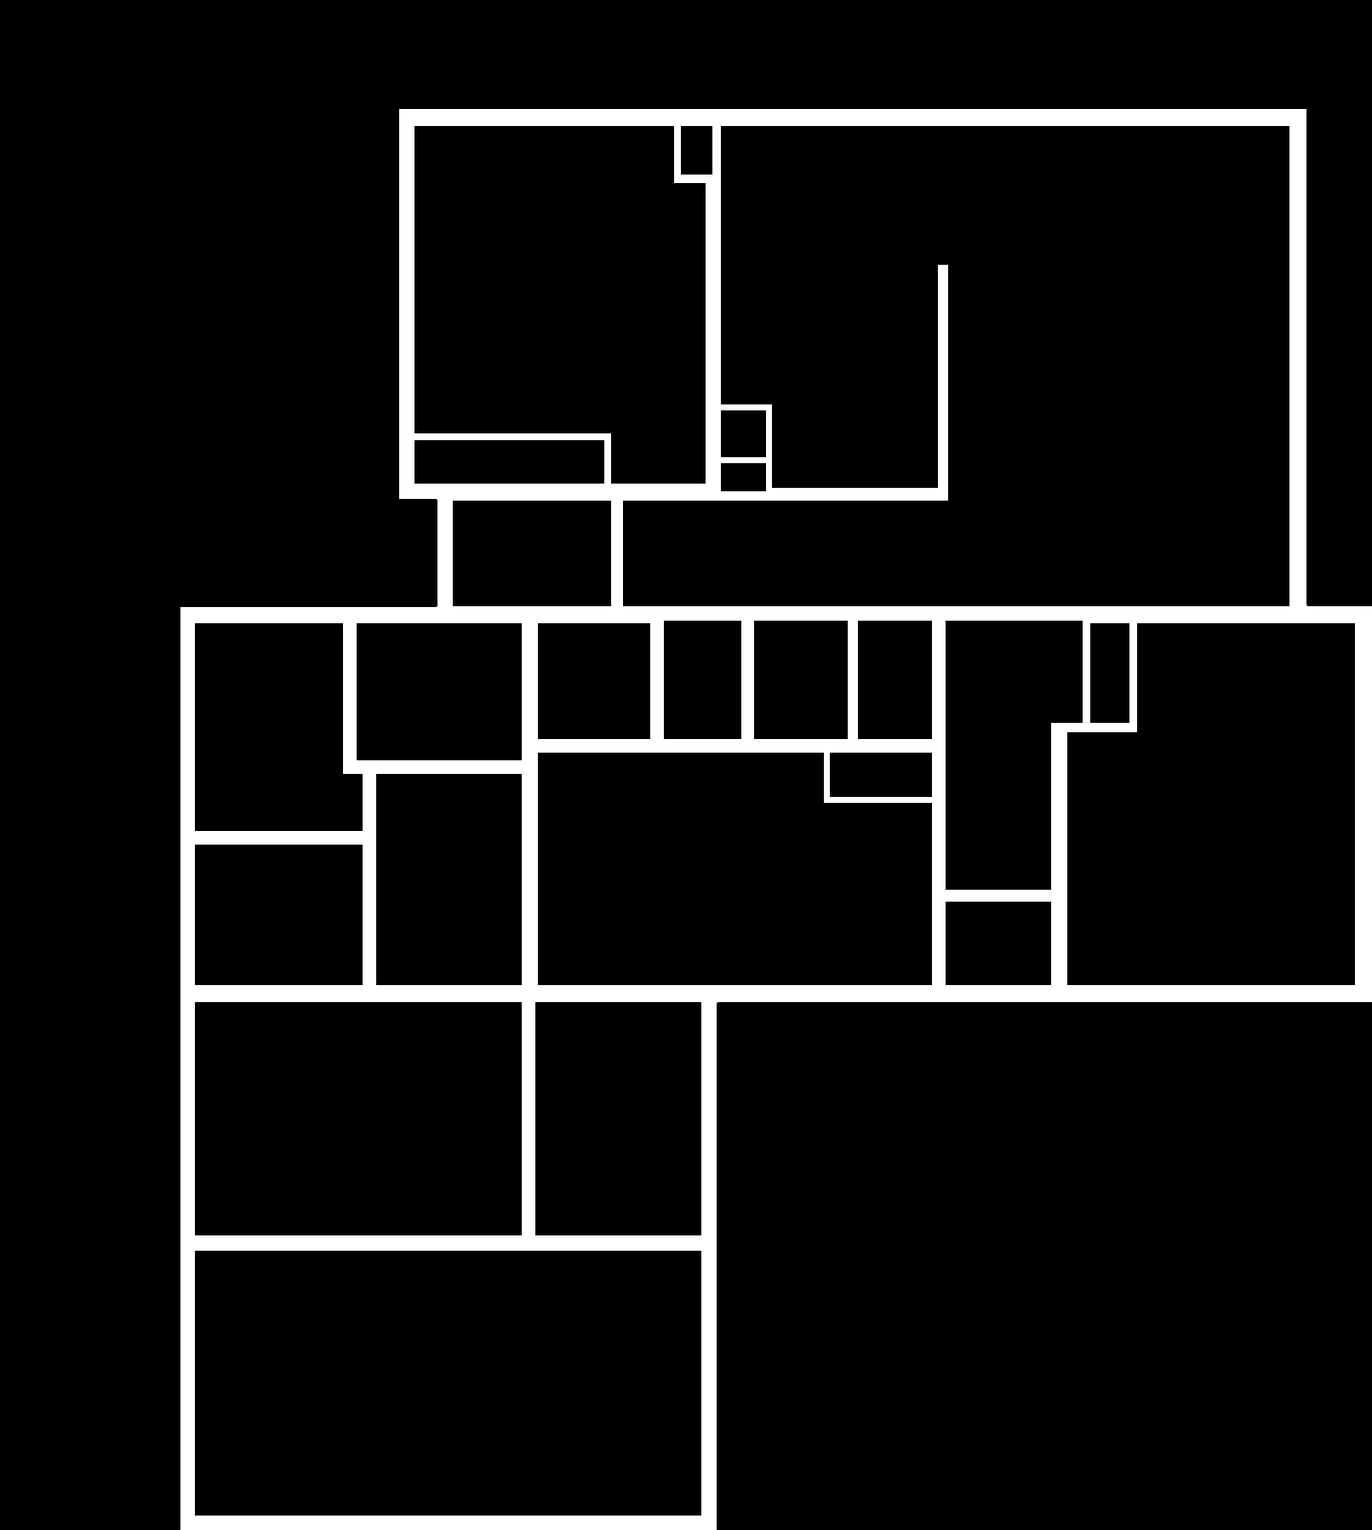
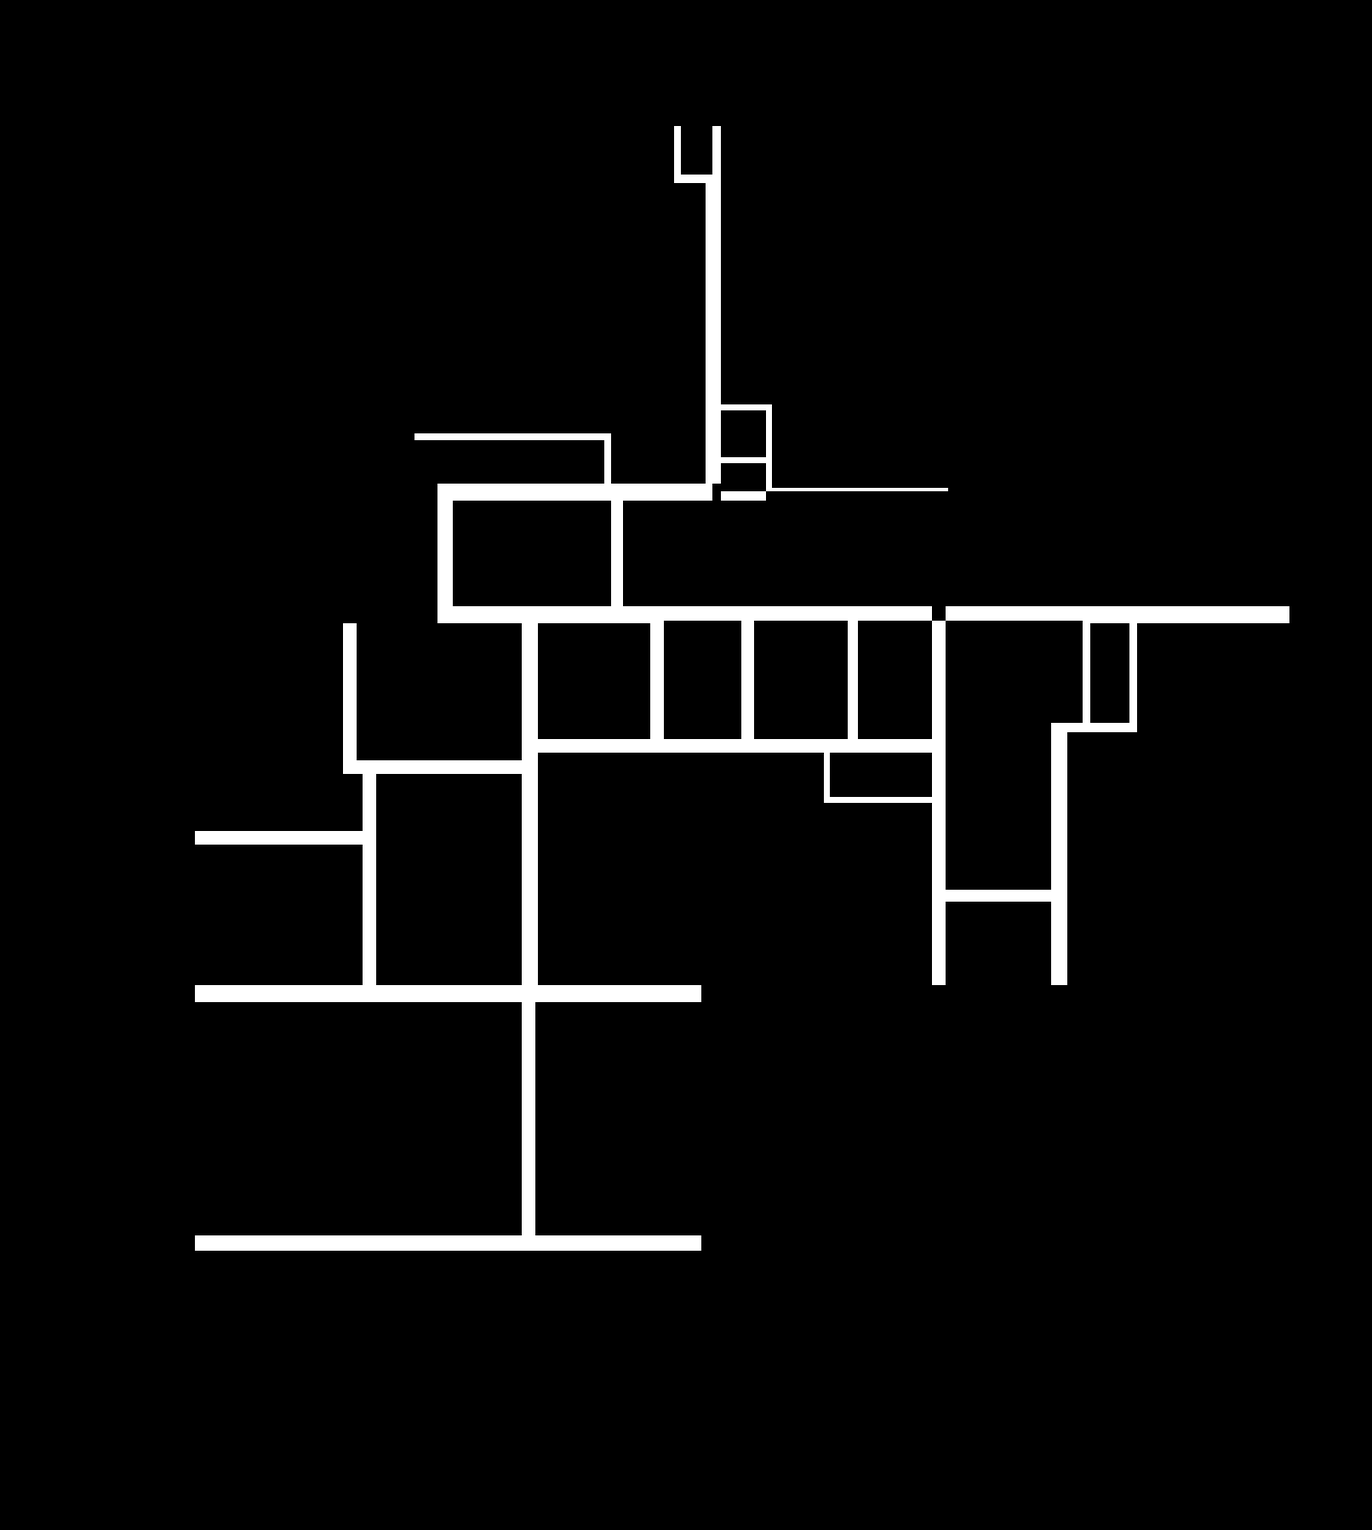
debug

Changed region(s): [[0.1241, 0.0623, 1.0, 1.0], [0.5583, 0.1558, 0.7134, 0.3428]]

diff --git a/indoor_topology/detect_adjacency.py b/indoor_topology/detect_adjacency.py
@@ -1,46 +1,47 @@
 import numpy as np
-from scipy.ndimage import binary_erosion, label, binary_dilation, binary_propagation
-from PIL import Image
+from scipy.ndimage import binary_erosion, label, binary_dilation
 
 
 def get_boundary_mask(region_id_map, rid):
     """
-    Returns a boolean mask of boundary pixels for room `rid`.
-    A boundary pixel is one that belongs to room `rid` but has at least
-    one direct neighbor (up, down, left, or right) that is not in `rid`.
+    返回房间 `rid` 的边界像素布尔掩膜。
+    边界像素定义：属于房间rid且至少有一个直接相邻（上、下、左或右）像素不属于该房间的像素。
     """
-    # Create binary mask for the specified room id
     room_mask = (region_id_map == rid)
     if not room_mask.any():
-        # If room id not present, return an all-false mask
+        # 若房间ID不存在于地图中，返回全False掩膜
         return np.zeros_like(region_id_map, dtype=bool)
-    # Define a 4-connected structuring element (including center pixel)
+    # 定义4-邻接结构元素（包括中心像素）
     structure = np.array([[0, 1, 0],
                           [1, 1, 1],
                           [0, 1, 0]], dtype=bool)
-    # Erode the room mask to get interior pixels (border_value=0 treats outside as empty)
+    # 通过腐蚀获取房间内部像素，border_value=0 将房间外视为空
     interior = binary_erosion(room_mask, structure=structure, border_value=0)
-    # Boundary pixels are those in room_mask that were eroded away (not in interior)
+    # 房间边界像素 = 房间mask减去其内部像素
     boundary_mask = room_mask & ~interior
     return boundary_mask
 
 
-def detect_adjacency(region_id_map, wall_array, icon_array, wall_label_array):
+def detect_adjacency(region_id_map, wall_array, icon_array, wall_label_array, debug=True):
     """
-    Detects adjacency between rooms via doors, windows, and walls.
-    Now excludes "exterior walls" (walls adjacent to regions with labels in {0,1,8,50})
-    from room-to-room wall connectivity.
-    Returns a dict where keys are (room1, room2) tuples and values contain:
-      - 'connection_types': set of {'door', 'window', 'wall'} indicating types of connections.
-      - 'num_door_window': count of door/window openings between the rooms.
-      - 'area_door_window': total area (in pixels) of those door/window openings.
-      - 'num_wall': count of wall segments between the rooms.
-      - 'area_wall': total area (pixels) of those wall segments.
+    检测室内房间之间的邻接关系（门、窗、墙连接）。
+    返回一个字典 `edges`，键为(room1, room2)元组，值为包含以下字段的字典：
+      - 'connection_types': 包含 {'door', 'window', 'wall'} 的集合，指示房间间存在的连接类型。
+      - 'num_door_window': 房间间门/窗洞开口的数量。
+      - 'area_door_window': 上述门/窗开口的总像素面积（像素数）。
+      - 'num_wall': 房间间墙体连接段的数量。
+      - 'area_wall': 上述墙体段的总像素数（面积近似值）。
+    参数：
+      - region_id_map: 房间分区ID的二维数组，0表示背景/非房间。
+      - wall_array: 墙体像素的二值数组（1表示墙体，0表示非墙体）。
+      - icon_array: 图标数组，用于标识门窗等开口区域（约定1为门，2为窗）。
+      - wall_label_array: 墙体类别/分段标签数组，用于辅助判断外墙等排除情况。
+      - debug: 是否启用调试模式。若为True，将输出调试图像'debug_internal_wall_mask.png'显示内部墙体区域。
     """
     edges = {}
 
     def ensure_edge_entry(a, b):
-        """Helper to initialize dictionary entry for a room pair if not exists."""
+        """确保字典中存在房间对(a,b)的记录条目（无向，无序）。"""
         key = (a, b) if a < b else (b, a)
         if key not in edges:
             edges[key] = {
@@ -52,12 +53,12 @@ def detect_adjacency(region_id_map, wall_array, icon_array, wall_label_array):
             }
         return key
 
-    # 4-connected structure for labeling and dilation (cross-shaped)
+    # 定义4-邻接结构（用于连通域检测和膨胀操作）
     structure = np.array([[0, 1, 0],
                           [1, 1, 1],
                           [0, 1, 0]], dtype=bool)
 
-    # **Door and Window connections** (保持原有逻辑)
+    # **门和窗的连接检测（保持与v0逻辑一致）**
     for icon_val, icon_type in [(1, 'door'), (2, 'window')]:
         icon_mask = (icon_array == icon_val)
         labeled_icons, num_icons = label(icon_mask, structure=structure)
@@ -65,158 +66,177 @@ def detect_adjacency(region_id_map, wall_array, icon_array, wall_label_array):
             comp_mask = (labeled_icons == lbl)
             if not comp_mask.any():
                 continue
-            # Find unique neighboring room IDs by dilating the icon region
+            # 膨胀图标区域一个像素，以找到其相邻的房间区域
             dilated = binary_dilation(comp_mask, structure=structure, border_value=0)
-            neighbor_area = dilated & ~comp_mask  # pixels adjacent to the icon region
+            neighbor_area = dilated & ~comp_mask  # 图标区域膨胀后减去自身，得到其周围邻接区域
             neighbor_ids = np.unique(region_id_map[neighbor_area])
-            neighbor_ids = neighbor_ids[neighbor_ids > 0]  # exclude non-room (0)
+            neighbor_ids = neighbor_ids[neighbor_ids > 0]  # 过滤掉背景（0）
             if neighbor_ids.size == 2:
+                # 图标正好连接两个不同的房间
                 a, b = int(neighbor_ids[0]), int(neighbor_ids[1])
                 key = ensure_edge_entry(a, b)
-                edges[key]['connection_types'].add(icon_type)  # 'door' or 'window'
+                edges[key]['connection_types'].add(icon_type)  # 添加连接类型 'door' 或 'window'
                 edges[key]['num_door_window'] += 1
                 edges[key]['area_door_window'] += int(comp_mask.sum())
 
-    # **Wall connections**
-    # 使用 wall_label_array 判定外墙：排除 exclude_indices 区域邻接的墙体
-    exclude_indices = {0, 1, 8, 50}
-    exclude_mask = np.isin(wall_label_array, list(exclude_indices))
-    # 将排除区域膨胀一圈，得到与这些区域相邻的所有像素
-    exclude_neighbors = binary_dilation(exclude_mask, structure=structure, border_value=0)
-    # 外墙掩码：与排除区域邻接且自身为墙体的像素
-    external_wall_mask = exclude_neighbors & (wall_array == 1)
-    # 内部墙体掩码（排除外墙后的墙体）
-    internal_wall = wall_array.copy().astype(np.uint8)
-    internal_wall[external_wall_mask] = 0
-    # 调试输出：保存排除外墙后的 wall_array 掩码图像
-    internal_wall_img = (internal_wall * 255).astype(np.uint8)
-    Image.fromarray(internal_wall_img).save("debug_internal_wall_mask.png")
-
-    # 提取所有房间的 ID（排除背景 ID 如 0）
+    # **墙体连接检测**
     region_ids = np.unique(region_id_map)
-    region_ids = region_ids[region_ids != 0]
+    region_ids = region_ids[region_ids != 0]  # 排除背景ID 0
+    visited_wall = np.zeros_like(wall_array, dtype=bool)  # 标记墙体像素是否已处理，避免重复计数
+    internal_wall_mask = np.zeros_like(wall_array, dtype=bool)  # 调试掩膜，用于标记有效内部墙体像素
 
-    # 创建记录墙连接的访问标记数组，避免重复计算
-    visited_wall = np.zeros_like(internal_wall, dtype=bool)
+    # 定义需要排除的墙体类别索引（外墙、背景或特殊标记等）
+    exclude_indices = {0, 1, 8, 50}
 
-    # 遍历每个房间，检查其边界像素的墙连接
+    # 遍历每个房间的边界，尝试从边界像素出发扫描墙体
     for rid in region_ids:
-        # 获取房间 rid 的边界掩膜（边界像素为 True）
+        # 提取当前房间rid的边界像素掩膜
         boundary_mask = get_boundary_mask(region_id_map, rid)
-        boundary_coords = np.transpose(np.nonzero(boundary_mask))
+        boundary_coords = np.transpose(np.nonzero(boundary_mask))  # 边界像素坐标列表
 
         # 遍历该房间的每个边界像素
-        for x, y in boundary_coords:
-            # 检查四个正交方向的邻居像素
+        for (x, y) in boundary_coords:
+            # 检查四个正交方向的相邻像素
             for dx, dy in [(0, 1), (0, -1), (1, 0), (-1, 0)]:
                 nx, ny = x + dx, y + dy
                 # 跳过越界或非墙体的邻居
                 if nx < 0 or nx >= region_id_map.shape[0] or ny < 0 or ny >= region_id_map.shape[1]:
                     continue
-                if internal_wall[nx, ny] != 1:
+                if wall_array[nx, ny] != 1:
                     continue
-                # 邻居是墙体，且尚未被访问过，开始沿该方向逐像素扫描
+                # 如果该墙体邻居像素已被处理过，则跳过避免重复
                 if visited_wall[nx, ny]:
                     continue
+
+                # 邻居是未访问过的墙体像素，从此点沿当前方向进入墙体扫描
+                wall_pixels_segment = []  # 存储当前墙段的所有墙体像素
+                encountered_room = None  # 在穿透墙体过程中遇到的另一房间ID
+                last_wall_pixel = None  # 穿透扫描结束时最后一个墙体像素的坐标（用于墙段延伸）
+
                 t = 1
-                wall_pixels_segment = []  # 记录当前墙段的所有墙体像素
-                encountered_room = None  # 保存扫描过程中遇到的另一房间 ID
-                last_wall_pixel = None  # 记录墙体穿透结束时的最后一个墙像素坐标
+                # 沿(dx, dy)方向逐像素前进穿过墙体
                 while True:
                     cx = x + dx * t
                     cy = y + dy * t
-                    # 超出边界则停止扫描
+                    # 超出平面边界，停止扫描
                     if cx < 0 or cx >= region_id_map.shape[0] or cy < 0 or cy >= region_id_map.shape[1]:
                         break
-                    if internal_wall[cx, cy] == 1:
-                        # 仍在墙体内部，继续向前扩展
+                    # 若仍在墙体内，则记录该墙体像素并继续前进
+                    if wall_array[cx, cy] == 1:
                         wall_pixels_segment.append((cx, cy))
                         t += 1
                         continue
+                    # 遇到非墙体像素，停止扫描
                     else:
-                        # 碰到非墙体像素，结束扫描
                         rid2 = region_id_map[cx, cy]
+                        # 如果碰到的是另一个房间的像素（rid2非0且不等于当前房间rid）
                         if rid2 != 0 and rid2 != rid:
-                            # 找到另一个房间像素，记录连接的房间 ID 和最后一个墙体像素
-                            encountered_room = rid2
+                            encountered_room = int(rid2)
+                            # 记录扫描停止前的最后一个墙体像素（即(cx,cy)前一个仍在墙内的像素）
                             last_wall_pixel = (cx - dx, cy - dy)
+                        # 无论是否找到另一个房间，都结束当前方向的扫描
                         break
-                # 若未发现另一房间，则不是房间间墙连接
+
+                # 若没有直通另一房间（encountered_room为空），则不是有效的房间间墙连接
                 if encountered_room is None:
                     continue
 
-                # 确定房间对 (rid, encountered_room)，按大小排序作为无向键
+                # 确定房间对(pair)的键，以房间ID小的一方在前（无向）
                 id1, id2 = rid, encountered_room
                 pair = (id1, id2) if id1 < id2 else (id2, id1)
 
-                # 将扫描经过的墙体像素标记为已访问，避免重复识别
-                for wx, wy in wall_pixels_segment:
+                # 将初始扫描经过的墙体像素标记为已访问
+                for (wx, wy) in wall_pixels_segment:
                     visited_wall[wx, wy] = True
 
-                # 根据扫描方向确定墙段走向（垂直或水平）及房间所在侧向，用于沿墙长度扩展
-                if dx == 0 and dy == 1:  # 向东扫描，墙体走向为垂直（上下扩展）
+                # 根据扫描方向确定墙段走向和房间所在的侧向，用于沿墙段长度方向扩展
+                if dx == 0 and dy == 1:  # 从西向东扫描，墙段走向为垂直（上下方向扩展）
                     orient_dirs = [(1, 0), (-1, 0)]
-                    sideA, sideB = (0, -1), (0, 1)  # A 在墙的西侧，B 在墙的东侧
-                elif dx == 0 and dy == -1:  # 向西扫描，墙体走向为垂直（上下扩展）
+                    sideA, sideB = (0, -1), (0, 1)  # A房间在墙的西侧（左侧），B房间在墙的东侧（右侧）
+                elif dx == 0 and dy == -1:  # 从东向西扫描，墙段走向为垂直（上下方向扩展）
                     orient_dirs = [(1, 0), (-1, 0)]
-                    sideA, sideB = (0, 1), (0, -1)  # A 在墙的东侧，B 在墙的西侧
-                elif dx == 1 and dy == 0:  # 向南扫描，墙体走向为水平（左右扩展）
+                    sideA, sideB = (0, 1), (0, -1)  # A房间在墙的东侧，B房间在墙的西侧
+                elif dx == 1 and dy == 0:  # 从北向南扫描，墙段走向为水平（左右方向扩展）
                     orient_dirs = [(0, 1), (0, -1)]
-                    sideA, sideB = (-1, 0), (1, 0)  # A 在墙的北侧，B 在墙的南侧
-                elif dx == -1 and dy == 0:  # 向北扫描，墙体走向为水平（左右扩展）
+                    sideA, sideB = (-1, 0), (1, 0)  # A房间在墙的北侧，上侧；B房间在墙的南侧，下侧
+                elif dx == -1 and dy == 0:  # 从南向北扫描，墙段走向为水平（左右方向扩展）
                     orient_dirs = [(0, 1), (0, -1)]
-                    sideA, sideB = (1, 0), (-1, 0)  # A 在墙的南侧，B 在墙的北侧
+                    sideA, sideB = (1, 0), (-1, 0)  # A房间在墙的南侧，B房间在墙的北侧
                 else:
                     orient_dirs = []
 
-                # 选取穿透扫描结束时的最后墙体像素作为基准点
+                # 使用扫描穿透结束位置的最后墙体像素作为基准点
                 base_x, base_y = last_wall_pixel if last_wall_pixel is not None else wall_pixels_segment[-1]
 
-                # 分别向墙段两端（orient_dirs 方向）扩展，获取整个连续墙段
-                for odx, ody in orient_dirs:
+                # 分别向墙段的两端（orient_dirs方向）延伸，收集整个连续墙段的墙体像素
+                for (odx, ody) in orient_dirs:
                     curx, cury = base_x, base_y
                     while True:
                         curx += odx
                         cury += ody
-                        # 超出边界或非墙体则停止延伸
+                        # 越界则停止延伸
                         if curx < 0 or curx >= region_id_map.shape[0] or cury < 0 or cury >= region_id_map.shape[1]:
                             break
-                        if internal_wall[curx, cury] != 1:
+                        # 非墙体则停止延伸
+                        if wall_array[curx, cury] != 1:
                             break
-                        # 若墙体像素已记录过，表示该段墙已处理，停止延伸
+                        # 如果该墙体像素已被记录过，表示此墙段已处理过，停止延伸避免重复
                         if visited_wall[curx, cury]:
                             break
-                        # 检查该墙体像素两侧是否仍然是对应的两个房间
-                        ax, ay = curx + sideA[0], cury + sideA[1]  # A 房间一侧邻接像素
-                        bx, by = curx + sideB[0], cury + sideB[1]  # B 房间另一侧邻接像素
+                        # 检查该墙体像素两侧是否仍分别邻接房间rid（A）和encountered_room（B）
+                        ax, ay = curx + sideA[0], cury + sideA[1]  # 朝A房间侧相邻的位置
+                        bx, by = curx + sideB[0], cury + sideB[1]  # 朝B房间侧相邻的位置
+                        # 若任一侧越界，停止（视作不再邻接对应房间）
                         if ax < 0 or ax >= region_id_map.shape[0] or ay < 0 or ay >= region_id_map.shape[1]:
                             break
                         if bx < 0 or bx >= region_id_map.shape[0] or by < 0 or by >= region_id_map.shape[1]:
                             break
-                        # 如果当前墙像素两侧不再同时邻接房间 A 和 房间 B，表示墙段在此结束
+                        # 若当前墙像素两侧不再同时邻接房间A和房间B，则墙段在此方向终止
                         if region_id_map[ax, ay] != rid or region_id_map[bx, by] != encountered_room:
                             break
-                        # 墙段在该方向上继续，记录像素并标记访问
+                        # 满足条件，记录该墙体像素属于同一墙段并标记已访问
                         wall_pixels_segment.append((curx, cury))
                         visited_wall[curx, cury] = True
 
-                # 统计该墙段的像素数和记录连接信息
-                segment_pixels = set(wall_pixels_segment)  # 去重获取该墙段所有独立像素
+                # 获取该墙段所有墙体像素的集合（去重）
+                segment_pixels = set(wall_pixels_segment)
                 segment_length = len(segment_pixels)
-                # 初始化或更新 edges 字典中房间对的墙连接信息
-                if pair not in edges:
-                    edges[pair] = {
-                        'connection_types': {'wall'},
-                        'num_wall': 1,
-                        'area_wall': segment_length,
-                        'num_door_window': 0,
-                        'area_door_window': 0
-                    }
-                else:
-                    # 保留已有的连接类型，新增 'wall'
-                    edges[pair]['connection_types'].add('wall')
-                    # 增加墙段数量和像素面积
-                    edges[pair]['num_wall'] += 1
-                    edges[pair]['area_wall'] += segment_length
+
+                # **外墙及异常情况排除判断**
+                exclude_segment = False
+                for (wx, wy) in segment_pixels:
+                    # 检查墙段像素周围是否有属于排除类别的标签
+                    for (adx, ady) in [(0, 1), (0, -1), (1, 0), (-1, 0)]:
+                        nx, ny = wx + adx, wy + ady
+                        if nx < 0 or nx >= wall_label_array.shape[0] or ny < 0 or ny >= wall_label_array.shape[1]:
+                            continue
+                        if wall_label_array[nx, ny] in exclude_indices:
+                            exclude_segment = True
+                            break
+                    if exclude_segment:
+                        break
+                if exclude_segment:
+                    # 若该墙段与外墙/背景等相邻，不计入房间连接
+                    continue
+
+                # 将该墙段的像素标记到调试掩膜中
+                for (wx, wy) in segment_pixels:
+                    internal_wall_mask[wx, wy] = True
+
+                # 更新edges字典中房间对的墙连接信息
+                key = ensure_edge_entry(rid, encountered_room)
+                edges[key]['connection_types'].add('wall')
+                edges[key]['num_wall'] += 1
+                edges[key]['area_wall'] += segment_length
+
+    # 输出调试图像：显示所有判定为内部墙体的像素区域（白色）
+    if debug:
+        try:
+            import imageio
+            # 将内部墙掩膜转换为0-255的图像并保存
+            imageio.imwrite('debug_internal_wall_mask.png', (internal_wall_mask.astype(np.uint8) * 255))
+        except ImportError:
+            # 若没有imageio，可改用其他库保存图像，例如opencv或PIL
+            pass
 
     return edges
